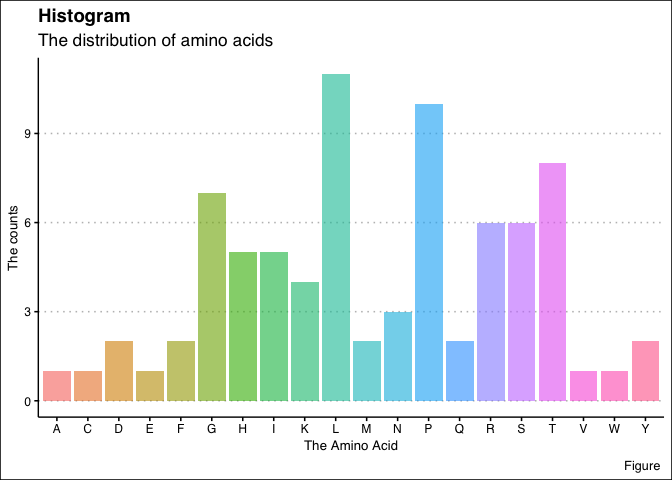
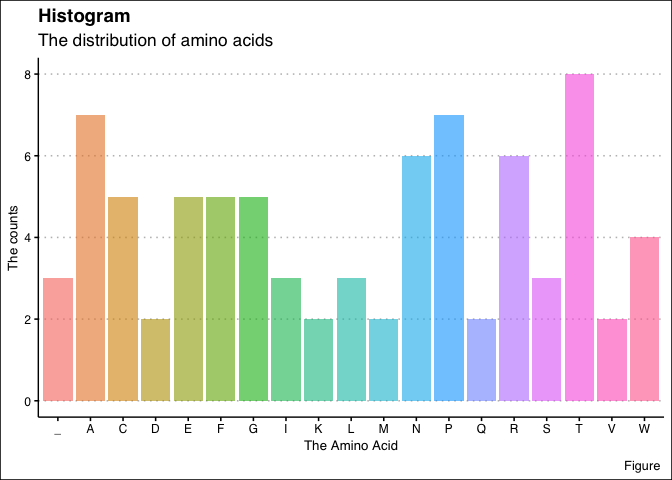
Final Mushrooms 12.05

diff --git a/README.md b/README.md
@@ -67,7 +67,7 @@ library(MolBio)
 ``` r
 dna_seq <- make_dna(240)
 dna_seq
-#> [1] "ACATCCAAGTCCATCCACCTGTGCGGAAGTAACATAACGCCTATACACATACCAACGTTCCAATACCCAAAGCCAAAAAGATTCGACCCAGGTCACCTACGCAGACCGCGTACTCATCTGCTGACGCTACTCTATATGCTCACTCTGATGCCAGGAGGACACCTCATTAGGGGTGGTCCTCGTGCACCGCAGGGAGATGTGCCTAATTGGTCCCTGTCGACGGAGAATAGTAAGACTCTA"
+#> [1] "TGCGAAAAAGCTTTCAACCCATGCGAGCGCTGGTGGGCAATTTTGATGTGTTGCGTCAACGCTTTCACTACGATAATGGCTGGTCTGCCGATCGACCTCAGATGATCTACAGAGACTACACCAACGAAAGCTAATGTAGAATGGCAGGAAGCGCCATGACGCAATCCATTTCAGCGGACTGACAGCGGTACCAACAACGCTCGACCTTCTGGTGGATGGCCGTTTTTCGGGTGCTGACGC"
 ```
 
 ------------------------------------------------------------------------
@@ -79,7 +79,7 @@ The second verb is `make_rna()`. It creates a string of RNA
 ``` r
 rna_sequence <- make_rna(dna_seq)
 rna_sequence
-#> [1] "ACAUCCAAGUCCAUCCACCUGUGCGGAAGUAACAUAACGCCUAUACACAUACCAACGUUCCAAUACCCAAAGCCAAAAAGAUUCGACCCAGGUCACCUACGCAGACCGCGUACUCAUCUGCUGACGCUACUCUAUAUGCUCACUCUGAUGCCAGGAGGACACCUCAUUAGGGGUGGUCCUCGUGCACCGCAGGGAGAUGUGCCUAAUUGGUCCCUGUCGACGGAGAAUAGUAAGACUCUA"
+#> [1] "UGCGAAAAAGCUUUCAACCCAUGCGAGCGCUGGUGGGCAAUUUUGAUGUGUUGCGUCAACGCUUUCACUACGAUAAUGGCUGGUCUGCCGAUCGACCUCAGAUGAUCUACAGAGACUACACCAACGAAAGCUAAUGUAGAAUGGCAGGAAGCGCCAUGACGCAAUCCAUUUCAGCGGACUGACAGCGGUACCAACAACGCUCGACCUUCUGGUGGAUGGCCGUUUUUCGGGUGCUGACGC"
 ```
 
 ------------------------------------------------------------------------
@@ -91,13 +91,13 @@ The third verb is `make_codon()`. It creates separate strings of codons
 ``` r
 codon_produced <- make_codon(rna_sequence)
 codon_produced
-#>  [1] "ACA" "UCC" "AAG" "UCC" "AUC" "CAC" "CUG" "UGC" "GGA" "AGU" "AAC" "AUA"
-#> [13] "ACG" "CCU" "AUA" "CAC" "AUA" "CCA" "ACG" "UUC" "CAA" "UAC" "CCA" "AAG"
-#> [25] "CCA" "AAA" "AGA" "UUC" "GAC" "CCA" "GGU" "CAC" "CUA" "CGC" "AGA" "CCG"
-#> [37] "CGU" "ACU" "CAU" "CUG" "CUG" "ACG" "CUA" "CUC" "UAU" "AUG" "CUC" "ACU"
-#> [49] "CUG" "AUG" "CCA" "GGA" "GGA" "CAC" "CUC" "AUU" "AGG" "GGU" "GGU" "CCU"
-#> [61] "CGU" "GCA" "CCG" "CAG" "GGA" "GAU" "GUG" "CCU" "AAU" "UGG" "UCC" "CUG"
-#> [73] "UCG" "ACG" "GAG" "AAU" "AGU" "AAG" "ACU" "CUA"
+#>  [1] "UGC" "GAA" "AAA" "GCU" "UUC" "AAC" "CCA" "UGC" "GAG" "CGC" "UGG" "UGG"
+#> [13] "GCA" "AUU" "UUG" "AUG" "UGU" "UGC" "GUC" "AAC" "GCU" "UUC" "ACU" "ACG"
+#> [25] "AUA" "AUG" "GCU" "GGU" "CUG" "CCG" "AUC" "GAC" "CUC" "AGA" "UGA" "UCU"
+#> [37] "ACA" "GAG" "ACU" "ACA" "CCA" "ACG" "AAA" "GCU" "AAU" "GUA" "GAA" "UGG"
+#> [49] "CAG" "GAA" "GCG" "CCA" "UGA" "CGC" "AAU" "CCA" "UUU" "CAG" "CGG" "ACU"
+#> [61] "GAC" "AGC" "GGU" "ACC" "AAC" "AAC" "GCU" "CGA" "CCU" "UCU" "GGU" "GGA"
+#> [73] "UGG" "CCG" "UUU" "UUC" "GGG" "UGC" "UGA" "CGC"
 ```
 
 ------------------------------------------------------------------------
@@ -110,7 +110,7 @@ sequence from the codons.
 ``` r
 polypeptide_sequence <- make_polypeptide(codon_produced)
 polypeptide_sequence
-#> [1] "TSKSIHLCGSNITPIHIPTFQYPKPKRFDPGHLRRPRTHLLTLLYMLTLMPGGHLIRGGPRAPQGDVPNWSLSTENSKTL"
+#> [1] "CEKAFNPCERWWAILMCCVNAFTTIMAGLPIDLR_STETTPTKANVEWQEAP_RNPFQRTDSGTNNARPSGGWPFFGC_R"
 ```
 
 ------------------------------------------------------------------------
